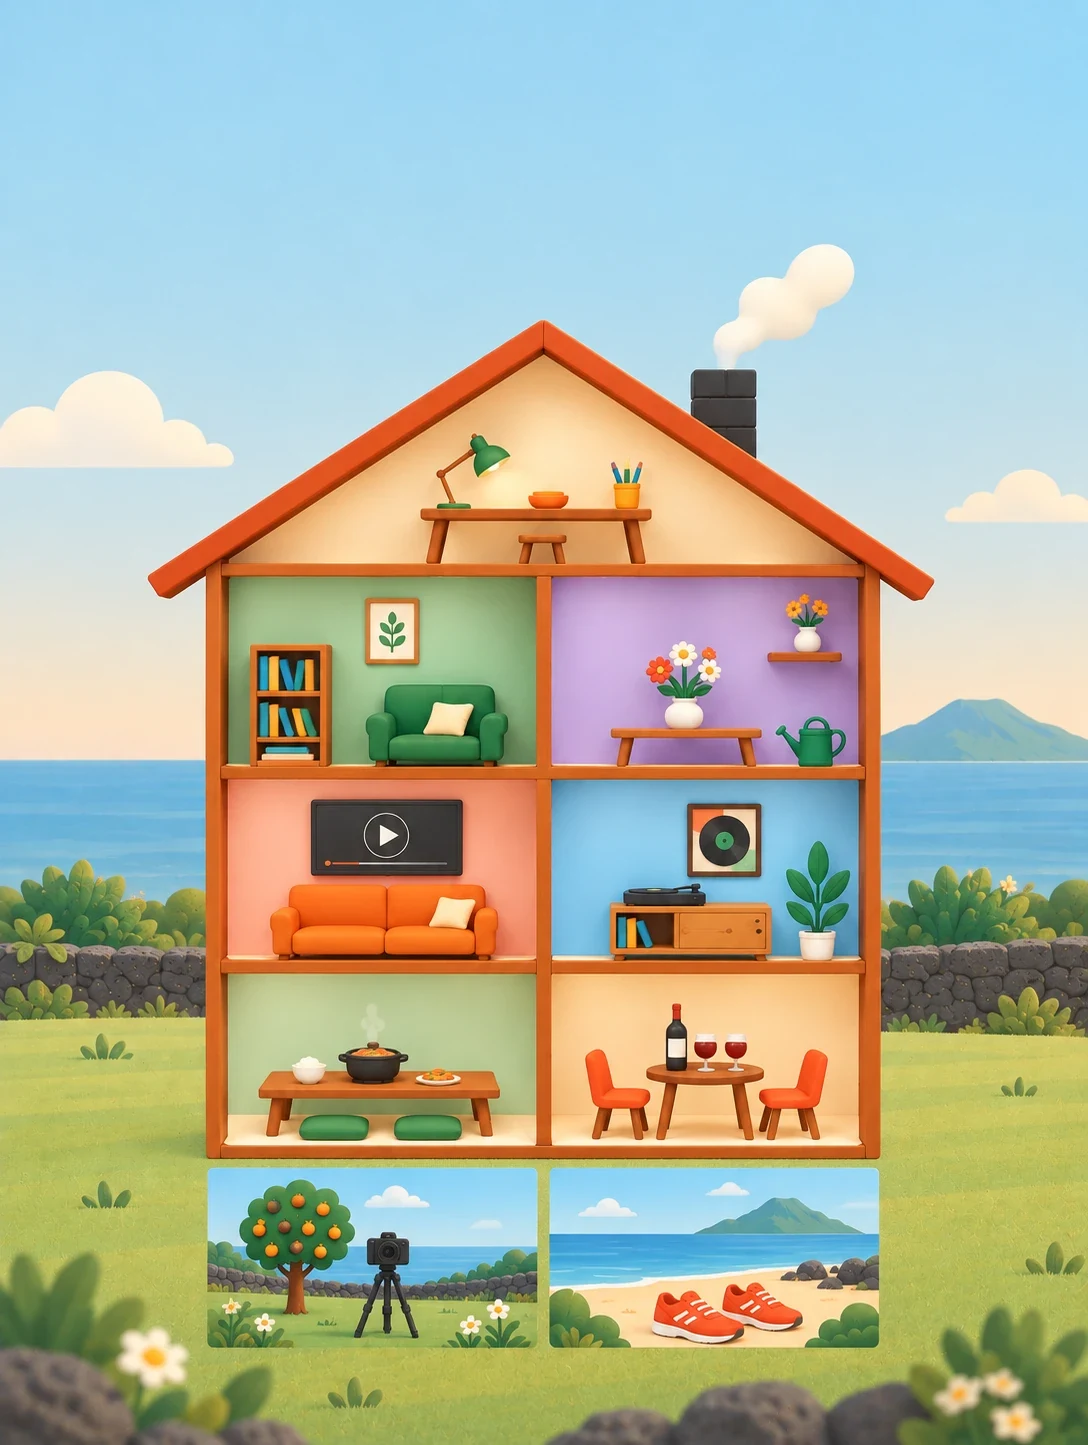
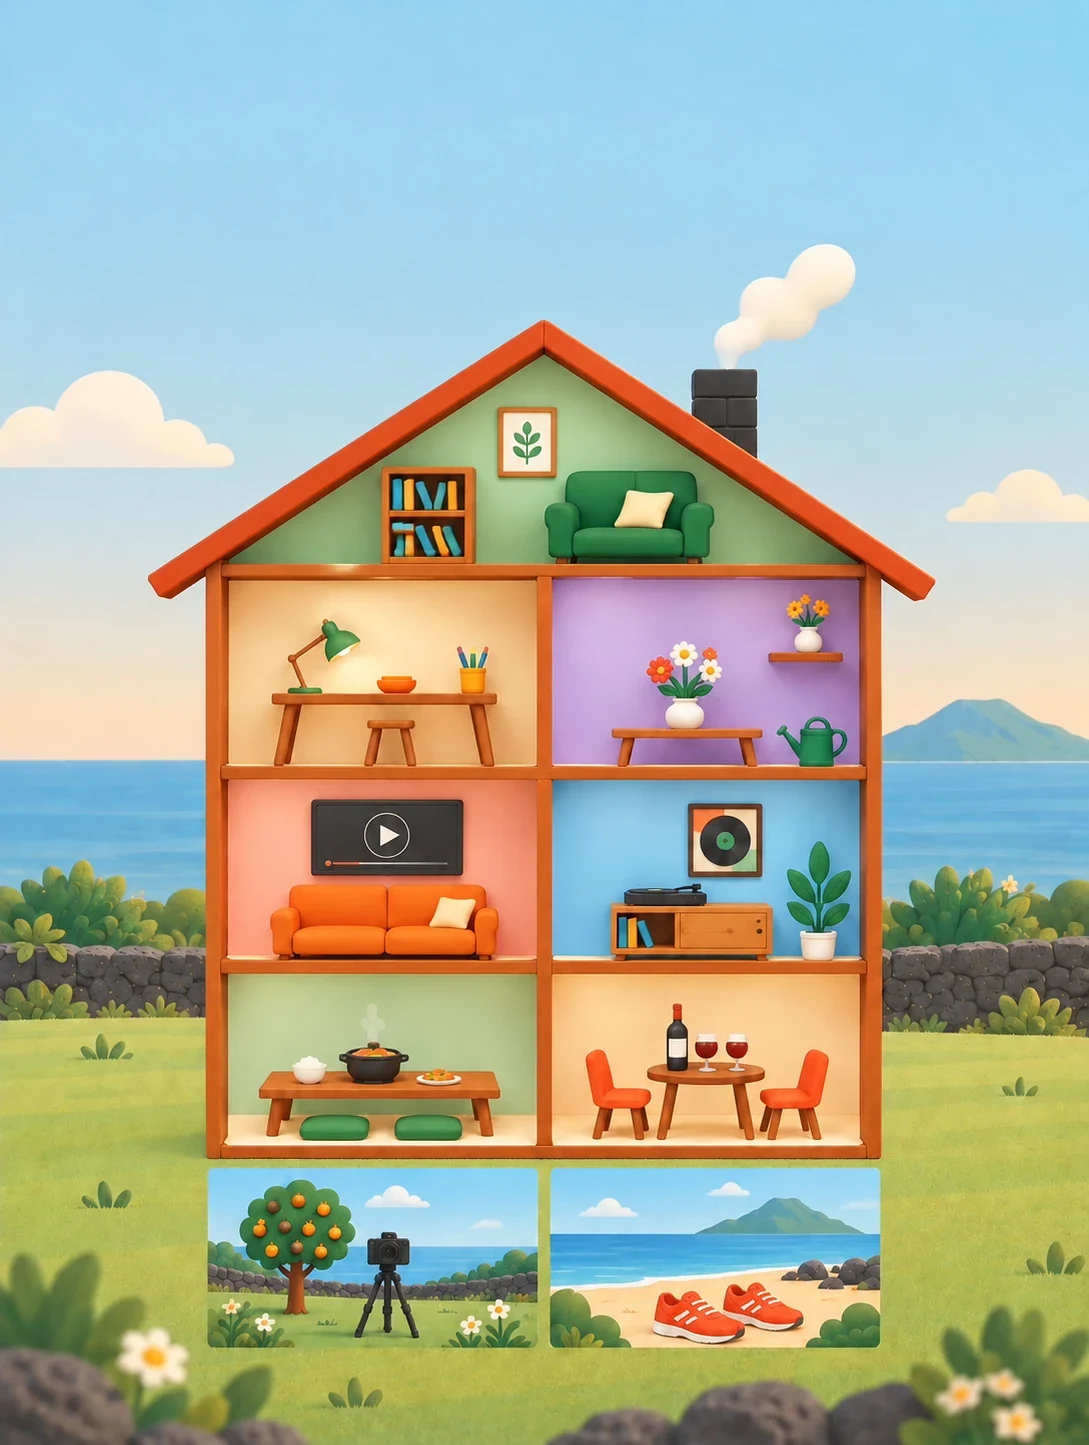
집 그림 새로 — 휴대폰은 세로 그림, 웹은 양옆 풍경까지 있는 가로 그림을 화면 폭에 꽉 차게 · 다락 책 · 3F 반지공방으로 방 자리 맞춤

Changed region(s): [[0.1875, 0.2491, 0.7812, 0.5294], [0.7812, 0.4983, 0.8125, 0.5294], [0.5625, 0.6228, 0.5938, 0.654]]

diff --git a/src/pages/HousePage.tsx b/src/pages/HousePage.tsx
@@ -5,6 +5,8 @@ import { href } from '../lib/router';
 import { ExpIcon } from '../components/ExpIcon';
 import houseUrl from '../assets/house-3d.webp';
 import houseBgUrl from '../assets/house-wide-bg.webp';
+import houseWideUrl from '../assets/house-3d-wide.webp';
+import { useMediaQuery } from '../lib/motion';
 
 /**
  * PAGE 02 — 집 내부 탐색 (EXPLORE)
@@ -16,24 +18,43 @@ type View = 'house' | 'list';
 const VIEW_KEY = 'jejulog:house-view';
 
 /**
- * 받은 그림 한 장(제주 풍경 배경 + 집, 1088 × 1445) 속 방 자리 · 이름표 자리 — 그림 픽셀 기준
- * room: 방 네모 [x1, y1, x2, y2] / tag: 이름표 자리 [x, y, 최소 너비] (center — 가운데 기준)
- * 다락 반지공방 · 3F 책 · 꽃꽂이 · 2F 영화 · LP · 1F 집밥 · 와인 · 마당 스냅사진 · 러닝 — 휴대폰 · 넓은 화면 모두 같은 그림
+ * 받은 그림 두 장 속 방 자리 · 이름표 자리 — 그림 픽셀 기준
+ * room: 방 네모 [x1, y1, x2, y2] / tag: 이름표 자리 [x, y, 최소 너비] (center — 가운데 기준, 다락)
+ * 다락 책 · 3F 반지공방 · 꽃꽂이 · 2F 영화 · LP · 1F 집밥 · 와인 · 마당 스냅사진 · 러닝
+ * 휴대폰(좁은 화면) — 세로 그림, 웹(넓은 화면) — 양옆 풍경까지 그려진 가로 그림을 화면 폭에 꽉 차게
  */
 type Spot = { id: ProgramId; room: [number, number, number, number]; tag: [number, number, number]; center?: boolean };
-const HOUSE: { url: string; w: number; h: number; spots: Spot[] } = {
-  url: houseUrl, w: 1088, h: 1445,
-  spots: [
-    { id: 'craft', room: [227, 330, 860, 564], tag: [543, 392, 122], center: true },
-    { id: 'book', room: [227, 576, 536, 767], tag: [240, 589, 66] },
-    { id: 'flower', room: [551, 576, 860, 767], tag: [564, 589, 95] },
-    { id: 'cinema', room: [227, 778, 536, 961], tag: [240, 791, 84] },
-    { id: 'lp', room: [551, 778, 860, 961], tag: [564, 791, 70] },
-    { id: 'homemeal', room: [227, 973, 536, 1146], tag: [240, 986, 85] },
-    { id: 'wine', room: [551, 973, 860, 1146], tag: [564, 986, 83] },
-    { id: 'camping', room: [208, 1168, 537, 1348], tag: [221, 1181, 120] },
-    { id: 'running', room: [551, 1168, 878, 1348], tag: [564, 1181, 89] },
-  ],
+const HOUSES: Record<'narrow' | 'wide', { url: string; w: number; h: number; spots: Spot[] }> = {
+  // 휴대폰 — 세로 그림 (1089 × 1445)
+  narrow: {
+    url: houseUrl, w: 1089, h: 1445,
+    spots: [
+      { id: 'book', room: [227, 330, 860, 564], tag: [543, 392, 66], center: true },
+      { id: 'craft', room: [227, 576, 536, 767], tag: [240, 589, 122] },
+      { id: 'flower', room: [551, 576, 860, 767], tag: [564, 589, 95] },
+      { id: 'cinema', room: [227, 778, 536, 961], tag: [240, 791, 84] },
+      { id: 'lp', room: [551, 778, 860, 961], tag: [564, 791, 70] },
+      { id: 'homemeal', room: [227, 973, 536, 1146], tag: [240, 986, 85] },
+      { id: 'wine', room: [551, 973, 860, 1146], tag: [564, 986, 83] },
+      { id: 'camping', room: [208, 1168, 537, 1348], tag: [221, 1181, 120] },
+      { id: 'running', room: [551, 1168, 878, 1348], tag: [564, 1181, 89] },
+    ],
+  },
+  // 웹 — 가로 그림 (1536 × 1024)
+  wide: {
+    url: houseWideUrl, w: 1536, h: 1024,
+    spots: [
+      { id: 'book', room: [497, 130, 1038, 306], tag: [768, 175, 66], center: true },
+      { id: 'craft', room: [497, 316, 759, 471], tag: [509, 328, 122] },
+      { id: 'flower', room: [773, 316, 1038, 471], tag: [785, 328, 95] },
+      { id: 'cinema', room: [497, 481, 759, 632], tag: [509, 493, 84] },
+      { id: 'lp', room: [773, 481, 1038, 632], tag: [785, 493, 70] },
+      { id: 'homemeal', room: [497, 641, 759, 784], tag: [509, 653, 85] },
+      { id: 'wine', room: [773, 641, 1038, 784], tag: [785, 653, 83] },
+      { id: 'camping', room: [481, 801, 762, 952], tag: [493, 813, 120] },
+      { id: 'running', room: [771, 801, 1054, 952], tag: [783, 813, 89] },
+    ],
+  },
 };
 const pct = (v: number, of: number) => `${(v / of) * 100}%`;
 
@@ -56,7 +77,8 @@ export function HousePage({ embedded = false }: { embedded?: boolean }) {
   const listed = houseOrder.map((id) => experiences.find((e) => e.id === id)!).filter(Boolean);
   // 상세페이지에 다녀와도 보던 방식이 유지되도록 이 탭에서만 기억합니다.
   const [view, setView] = useState<View>(readView);
-  const house = HOUSE;
+  const wide = useMediaQuery('(min-width: 900px)');
+  const house = HOUSES[wide ? 'wide' : 'narrow'];
   const { w: IMG_W, h: IMG_H } = house;
   const choose = (v: View) => {
     setView(v);
@@ -107,7 +129,7 @@ export function HousePage({ embedded = false }: { embedded?: boolean }) {
         </nav>
       ) : (
       <nav
-        className="house3d"
+        className={`house3d${wide ? ' house3d--wide' : ''}`}
         aria-label={ui.house.houseAria}
         style={{ '--iw': IMG_W, '--house-bg': `url(${houseBgUrl})` } as CSSProperties}
       >
@@ -119,7 +141,7 @@ export function HousePage({ embedded = false }: { embedded?: boolean }) {
             return (
               <span key={id} className="house3d__spot">
                 <a
-                  className={`house3d__room house3d__room--${id}`}
+                  className={`house3d__room house3d__room--${id}${center ? ' house3d__room--attic' : ''}`}
                   href={href.stay(id)}
                   aria-label={ui.house.roomAria(e.no, e.label, place)}
                   data-track={`house_${id}`}

diff --git a/src/styles/house.css b/src/styles/house.css
@@ -71,6 +71,8 @@
 /* 제목 글 → 안내 상자 간격은 메인 세 칸(ROOM TOUR · AROUND JEJU · MORE STORIES) 모두 --hint-gap 하나로 (제목 칸 gap 14px 를 뺀 만큼) */
 .explore--home .explore__hint { margin-top: calc(var(--hint-gap) - 14px); }
 .explore--home .explore__head:has(+ .house3d) { position: relative; z-index: 1; margin-bottom: calc(min(660px, 100vw) * -0.15); }
+/* 웹 가로 그림은 지붕 위 하늘이 짧아 조금만 겹침 (버튼이 지붕 꼭대기에 닿지 않게) */
+.explore--home .explore__head:has(+ .house3d--wide) { margin-bottom: calc(100vw * -0.03); }
 .explore--home .explore__hint, .explore--home .explore__toggle { background: rgba(255, 255, 255, .7); }
 .explore__hint, .explore__toggle { background: rgba(255, 255, 255, .6); }
 
@@ -181,13 +183,15 @@
   background: var(--house-bg) center top / auto 100% no-repeat, #C4C462; /* 그림 주소는 HousePage 에서 넘김 */
 }
 .house3d__frame { position: relative; width: var(--w); margin-inline: auto; }
+/* 웹 — 양옆 풍경까지 그려진 가로 그림 한 장을 화면 폭에 꽉 차게 */
+.house3d--wide { --w: 100vw; }
 .house3d__img { display: block; width: 100%; height: auto; }
 /* 방 — 투명 링크 (네모 테두리는 키보드로 고를 때만) */
 .house3d__room { position: absolute; display: block; outline: none; -webkit-tap-highlight-color: transparent; }
 .house3d__room::after { content: ""; position: absolute; inset: 0; pointer-events: none; box-shadow: inset 0 0 0 0 #F39A2B; transition: box-shadow var(--t-hover) var(--ease); }
 .house3d__room:focus-visible::after { box-shadow: inset 0 0 0 3px #F39A2B; }
 /* 다락 — 지붕 박공 모양대로만 눌림 */
-.house3d__room--craft { clip-path: polygon(49.9% 0, 100% 96%, 100% 100%, 0 100%, 0 96%); }
+.house3d__room--attic { clip-path: polygon(49.9% 0, 100% 96%, 100% 100%, 0 100%, 0 96%); }
 /* 이름표 — 그림에서 지운 이름표 자리에 작은 흰 알약, 호버 때 메인 주황 */
 .house3d__tag {
   position: absolute; pointer-events: none;

diff --git a/src/data/experiences.ts b/src/data/experiences.ts
@@ -42,15 +42,15 @@ export const EXPERIENCES: Experience[] = [
 export const EXPERIENCE_BY_ID = Object.fromEntries(EXPERIENCES.map((e) => [e.id, e])) as Record<ProgramId, Experience>;
 
 export const ROOMS: { id: RoomId; floor: string; name: string; items: ProgramId[] }[] = [
-  { id: 'attic', floor: 'ATTIC', name: '다락 작업실', items: ['craft'] },
-  { id: 'living', floor: '2F', name: '거실', items: ['book', 'flower', 'cinema'] },
+  { id: 'attic', floor: 'ATTIC', name: '다락 작업실', items: ['book'] },
+  { id: 'living', floor: '2F', name: '거실', items: ['craft', 'flower', 'cinema'] },
   { id: 'kitchen', floor: '1F', name: '부엌', items: ['lp', 'homemeal', 'wine'] },
   { id: 'yard', floor: 'YARD', name: '마당', items: ['camping', 'running'] },
 ];
 
-/** 집 단면 — 다락 반지공방 · 3F 책 · 꽃꽂이 · 2F 영화 · LP · 1F 집밥 · 와인 · 마당 스냅 · 러닝 (좁은 화면 — 넓은 화면은 ROOMS: 다락 1 · 2F 3칸 · 1F 3칸 · 마당 2) */
+/** 집 단면 — 다락 책 · 3F 반지공방 · 꽃꽂이 · 2F 영화 · LP · 1F 집밥 · 와인 · 마당 스냅 · 러닝 (좁은 화면 — 넓은 화면은 ROOMS: 다락 1 · 2F 3칸 · 1F 3칸 · 마당 2) */
 export const COMPACT_FLOORS: { id: RoomId; floor: string; name: string; items: ProgramId[] }[] = [
-  { id: 'study', floor: '3F', name: '서재', items: ['book', 'flower'] },
+  { id: 'study', floor: '3F', name: '서재', items: ['craft', 'flower'] },
   { id: 'living', floor: '2F', name: '거실', items: ['cinema', 'lp'] },
   { id: 'kitchen', floor: '1F', name: '부엌', items: ['homemeal', 'wine'] },
 ];
